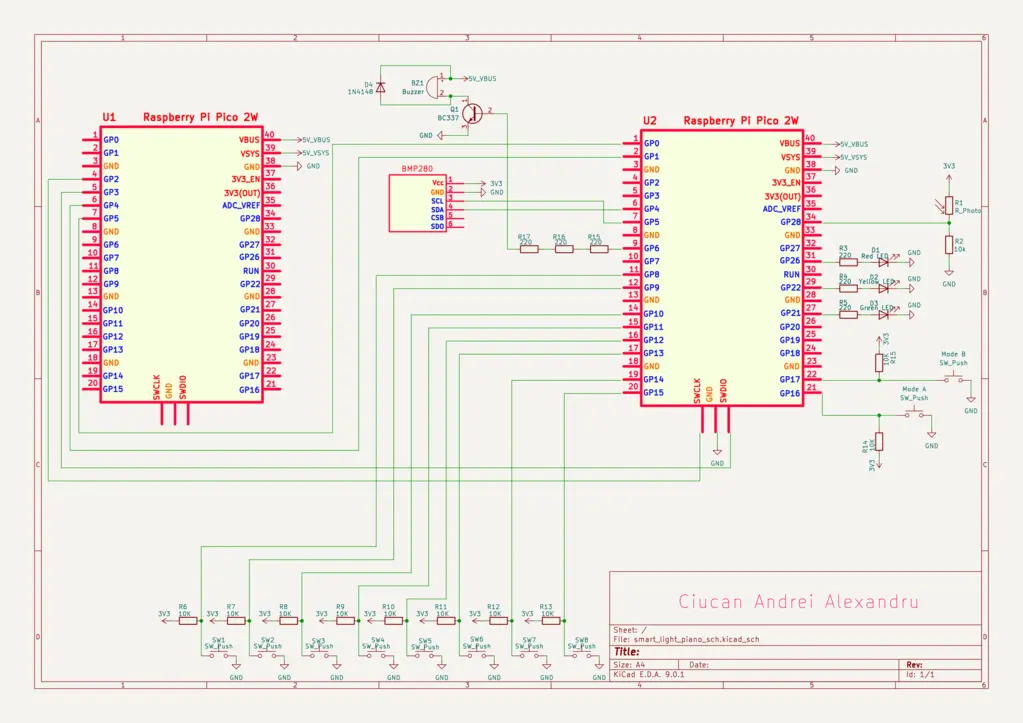
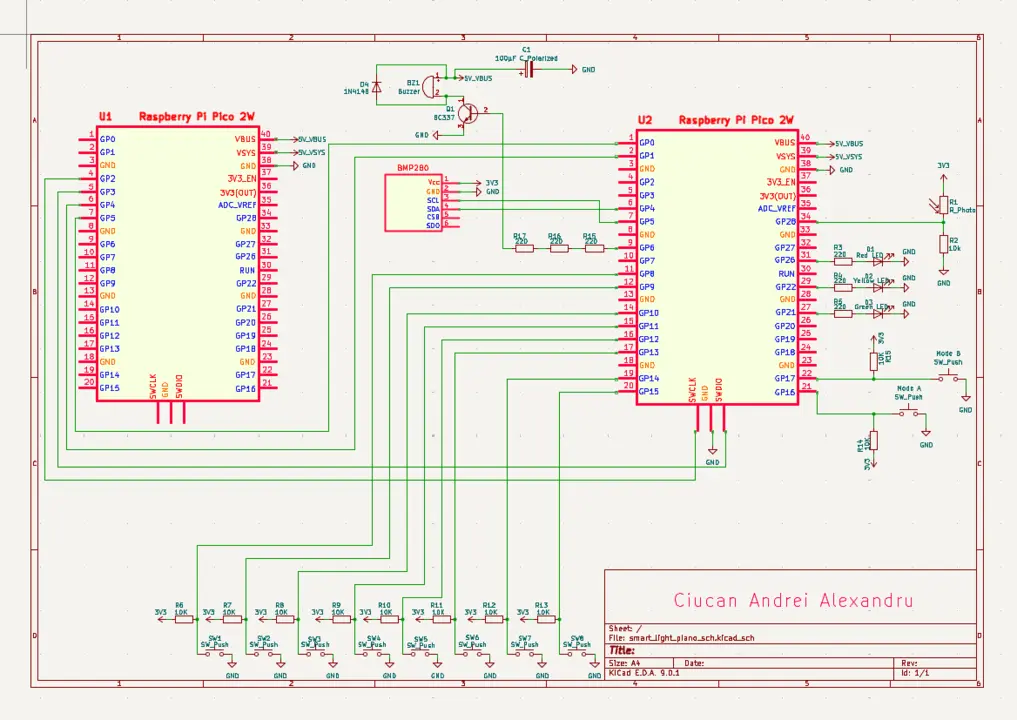
Hardware Milestone

diff --git a/website/versioned_docs/version-acs_cc/project/2025/andrei.ciucan/index.md b/website/versioned_docs/version-acs_cc/project/2025/andrei.ciucan/index.md
@@ -30,15 +30,15 @@ The piano offers **three operating modes**, selected through two dedicated butto
 |--------------|-----------|-------------|
 | **Button A pressed** | **Note Guess Mode** | A random note is played and the player must identify it by pressing the corresponding key. Each correct guess is stored and the sequence of correct notes is replayed as a melody after the first mistake. |
 | **Button B pressed** | **Effects Mode** | Applies real-time audio effects (such as vibrato, tremolo, or frequency shifts) to the notes for a more dynamic sound experience. |
-| **Both Button A and Button B pressed** | **Pressure-Controlled Pitch Mode (optional)** | An advanced mode where note pitch varies according to air pressure measurements from the **BMP280** sensor, allowing players to modify sounds by moving the device up or down. This mode is optional and intended to enrich the overall interaction. |
+| **Button A pressed, then Button B pressed** | **Pressure-Controlled Pitch Mode (optional)** | An advanced mode where note pitch varies according to air pressure measurements from the **BMP280** sensor, allowing players to modify sounds by moving the device up or down. This mode is optional and intended to enrich the overall interaction. |
+| **Button B pressed, then Button A pressed** | **Idle Mode** | If the system is already in a mode and the buttons are pressed in this order, the piano exits to the Idle state. |
 
 >If, during testing, the BMP280 pressure readings do not provide a clear-enough delta when I move the piano up or down, the pitch‑modulation logic will seamlessly fall back to temperature‑based mapping from the same sensor.
 
-> **Optional**: In a future update, Wi-Fi connectivity may be added to:
-> - Display the current ambient **temperature** remotely
-> - Transmit or record the sequence of **played notes** through a network connection
-
-
+> **Optional**: Although Wi-Fi connectivity was initially planned, I was not able to implement it due to electrical interference caused by the hardware configuration.
+> As an alternative, I developed a workaround based on two scripts:
+> - A Python script that runs the firmware via cargo run and parses RTT serial output to extract live values like pressure, mode, and notes.
+> - A browser interface using Flask and Chart.js to display a real-time pressure graph and the current active mode of the system.
 
 
 ## Motivation
@@ -86,11 +86,14 @@ Connected and tested initial components: buttons, buzzer, and LEDs using basic R
 
 ### Week 12 - 18 May
 
+I finished wiring all the hardware components on the breadboard, including LEDs, buttons, the buzzer, LDR and BMP280 sensor. I tested both a 3.3V and a 5V passive buzzer and the 5V version worked much better when powered through a transistor. All buttons and LEDs responded correctly in simple test programs and I was able to read analog values from the LDR and pressure data from the BMP280. I also added a 100 μF capacitor across the buzzer to reduce possible electrical noise. Despite that, the Wi-Fi stopped working whenever the hardware was connected, suggesting interference.
+
 ### Week 19 - 25 May
 
 ## Hardware
 
 I am using two Raspberry Pi Pico 2W boards in this setup. The main Pico handles all piano functionalities (PWM audio output, button reading, LED brightness control via ADC and BMP280 communication over I²C), while the second Pico acts as a debug interface through UART.
+To reduce high-frequency electrical noise caused by the buzzer’s PWM signal, a 100 μF electrolytic capacitor was added across its power lines. This was intended to stabilize the supply and reduce interference, especially during Wi-Fi-related testing.
 
 | Hardware Device | Purpose | Usage |
 |-----------------|---------|-------|
@@ -108,7 +111,7 @@ I am using two Raspberry Pi Pico 2W boards in this setup. The main Pico handles 
 | Breadboard (830 pts) | Project assembly | Used to build and connect all components without soldering |
 | Prototype PCB 10x15cm (Optional) | Permanent wiring | Can be used to solder the final circuit for improved robustness |
 | USB Power Supply | Power source | Supplies 5V via USB directly to the debugger Pico 2W |
-
+| 100 μF Electrolytic Capacitor | Noise filtering | Added across the buzzer’s power rail to reduce electrical noise and stabilize the power line during operation |
 
 ### Schematics
 
@@ -116,7 +119,15 @@ I am using two Raspberry Pi Pico 2W boards in this setup. The main Pico handles 
 
 ### Photos
 
-![Prototype](demo.webp)
+![Demo1](demo1.webp)
+![Demo2](demo2.webp)
+![Demo3](demo3.webp)
+![Demo4](demo4.webp)
+![Demo5](demo5.webp)
+![Site1](site1.webp)
+![Site2](site2.webp)
+![Site3](site3.webp)
+![Site4](site4.webp)
 
 
 ## Software
@@ -166,8 +177,9 @@ Colored 40p 2.54 mm Pitch Male Pin Header | Soldered on Pico 2W for connection |
 Breadboard 830 pts | Assembly platform for the entire project| [10 RON x 2](https://www.optimusdigital.ro/en/breadboards/8-breadboard-hq-830-points.html)
 20p Female Pin Header 2.54 mm(Optional) | Socket for Pico W on PCB | [4.3 RON x 4](https://www.optimusdigital.ro/en/pin-headers/4166-20p-female-pin-header-254-mm.html?search_query=20p+Female+Pin+Header+2.54+mm&results=6)
 Prototype PCB 10x15cm(Optional) | For soldering permanent project | [7.4 RON](https://www.optimusdigital.ro/en/others/12552-10x15cm-universal-pcb-prototype-board-single-sided-254mm-hole-pitch.html?search_query=prototype+pcb&results=25)
+Electrolytic Capacitor 100 uF, 50 V | Noise filtering | [1 RON](https://www.optimusdigital.ro/en/capacitors/1218-electrolytic-condensator-from-100-uf-to-50-v.html?search_query=Electrolytic+Capacitor+100+uF&results=149)
 
-#### Total: 161 RON
+#### Total: 162 RON
 
 ### Software
 
